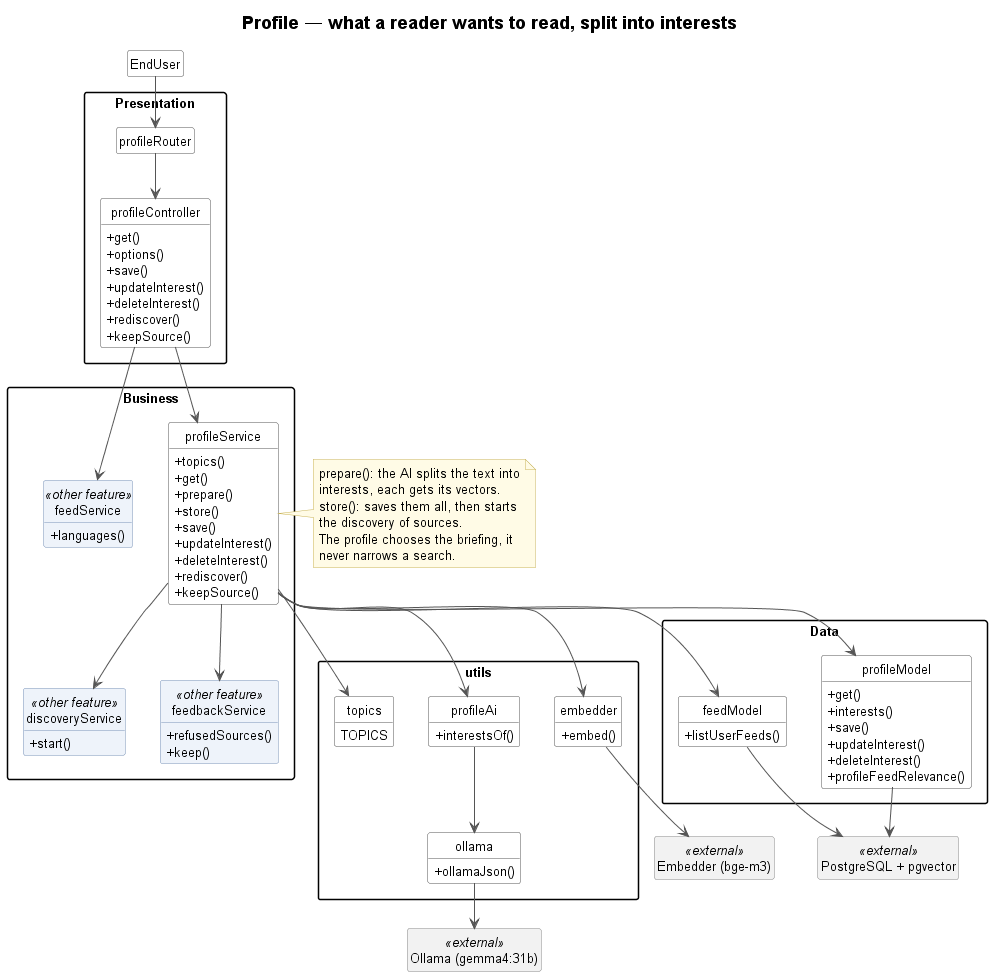
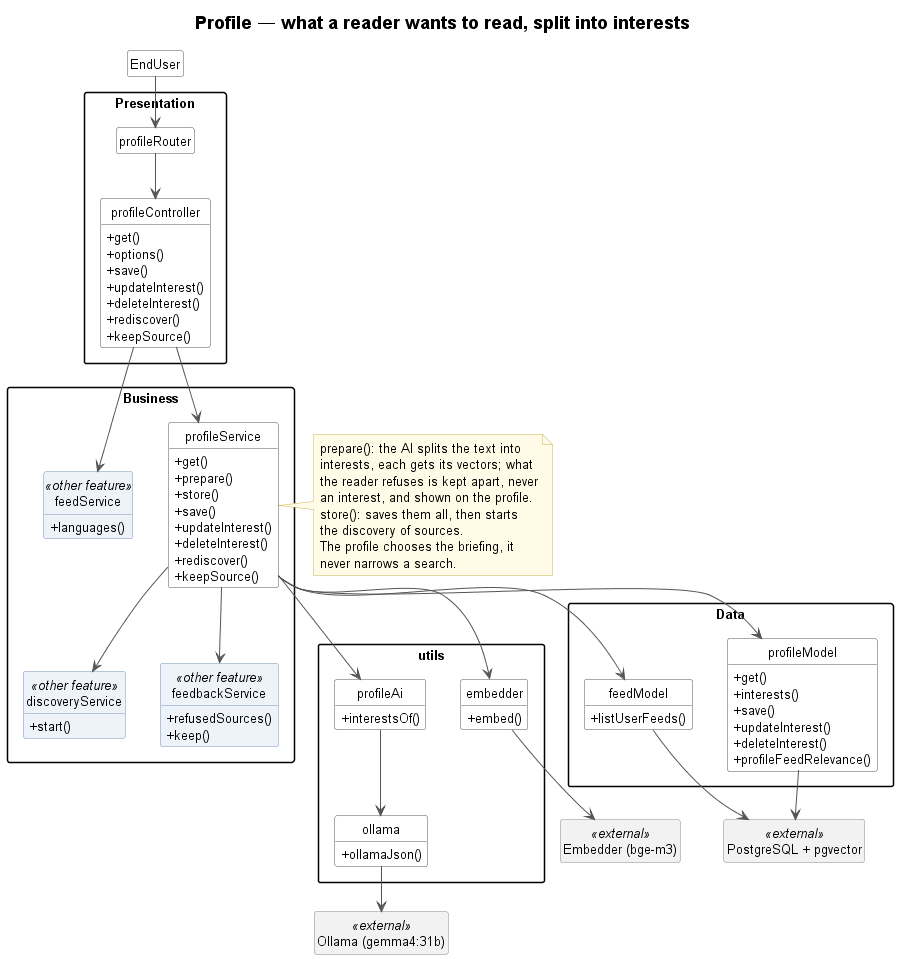
Keep what the reader refuses, shown on their profile
The AI already gave it apart from the interests: it is stored
(user_profiles.refused, db/add_profile_refused.sql) and returned by
GET /profile, named alone in the reader's words.

Changed region(s): [[0.0, 0.0605, 0.9978, 0.9979], [0.2183, 0.0, 0.7795, 0.0302], [0.1247, 0.635, 0.1559, 0.6653]]

diff --git a/services/utils/profile-ai.js b/services/utils/profile-ai.js
@@ -59,7 +59,7 @@ Pour chaque intérêt, donne :
 - "searches" : des recherches pour trouver dans Google News les médias qui publient sur ce sujet, dans chacune de ses "languages". Par langue, ${MAX_SEARCHES_PER_LANGUAGE} recherches courtes (1 à 3 mots), des mots qu'un titre d'article contiendrait, pas des phrases. "lang" est le code de la langue ("fr", "en", "sr").
 - "sections" : 1 mot par langue de ses "searches" qui nomme la rubrique d'un journal où ce sujet est publié, comme "jardin", "musique", "transports", "technologie".
 - "category" : la rubrique la plus proche parmi : ${categories.join(', ')}.
-Dans "refused", mets ce que le lecteur dit ne pas vouloir, avec ses mots, et [] s'il ne refuse rien.
+Dans "refused", mets chaque sujet que le lecteur dit ne pas vouloir, nommé seul avec ses mots, sans les mots du refus (« la téléréalité », pas « je ne veux pas de téléréalité »), et [] s'il ne refuse rien.
 Réponds uniquement en JSON : {"interests": [{"text": "...", "weight": 1, "keywords": "...", "languages": ["${language}"], "searches": [{"q": "...", "lang": "${language}"}], "sections": ["..."], "category": "${categories[0]}"}], "refused": ["..."]}`;
 
 const cleanText = (value, max) => typeof value === 'string' ? value.replace(/\s+/g, ' ').trim().slice(0, max) : '';
@@ -106,6 +106,13 @@ export const normalizeInterests = (answer, {categories}) => {
         .slice(0, MAX_INTERESTS);
 };
 
+export const MAX_REFUSED = 6;
+
+// what the reader says they do not want, in their words: shown on their profile so they see it was
+// read. The choice and the review of a briefing read it in the profile text itself
+export const normalizeRefused = (answer) => [...new Set((Array.isArray(answer?.refused) ? answer.refused : [])
+    .map(refused => cleanText(refused, 200)).filter(Boolean))].slice(0, MAX_REFUSED);
+
 // a search kept as "fr:Top 14", read back as {lang, q}
 export const parseSearch = (search) => {
     const [, lang, q] = String(search).match(/^([a-z]{2}):(.+)$/) ?? [];
@@ -115,7 +122,7 @@ export const parseSearch = (search) => {
 // Words of a profile that say how it is written, not what it is about: they are never looked for in
 // the interests
 const PROFILE_WORDS = new Set(`
-    intéresse intéressent intéresser intérêt intérêts surtout aussi tout toute tous toutes touche touchent
+    intéresse intéressent intéresser intéressé intéressée intérêt intérêts contre surtout aussi tout toute tous toutes touche touchent
     près enfin veux voudrais aime aimerais adore suivre suis rien mais plus moins très beaucoup peu
     actualité actualités nouvelles nouvelle info infos information informations sujet sujets thème thèmes
     cela ceux celles celle celui leurs notamment comme entre avec dans pour sans sont être avoir fait faire
@@ -152,13 +159,15 @@ export const missingWords = (profileText, interests, refused = []) => {
 // a secondary interest), twice each: the prompt asking for all the words of the reader left none out
 // (the one before: "nominations" and "changements" of the UEFA profile). A profile is split once when
 // it is saved, so when a word still misses the AI is asked once more, and its second answer kept only
-// when it misses fewer
+// when it misses fewer. {interests, refused}: what the reader refuses is never an interest, its vector
+// would bring the news refused
 export const interestsOf = async (profile) => {
     const prompt = interestsPrompt(profile);
     const answer = await ollamaJson(prompt);
     const interests = normalizeInterests(answer, profile);
     const missing = missingWords(profile.text, interests, answer?.refused);
-    if (missing.length === 0 || interests.length === 0) return interests;
+    const first = {interests, refused: normalizeRefused(answer)};
+    if (missing.length === 0 || interests.length === 0) return first;
 
     const again = await ollamaJson([
         {role: 'user', content: prompt},
@@ -166,7 +175,8 @@ export const interestsOf = async (profile) => {
         {role: 'user', content: `Ces mots du profil ne sont dans aucun "text" ni dans "refused" : ${missing.join(', ')}. Redonne toute ta réponse en ajoutant chacun, avec les mots qui l'entourent dans le profil, au "text" de l'intérêt qu'il précise, ou à "refused" si le lecteur le refuse. Ignore un mot qui ne dit aucun sujet.`},
     ]).catch(() => null);
     const retried = normalizeInterests(again, profile);
-    return retried.length > 0 && missingWords(profile.text, retried, again?.refused).length < missing.length ? retried : interests;
+    return retried.length > 0 && missingWords(profile.text, retried, again?.refused).length < missing.length
+        ? {interests: retried, refused: normalizeRefused(again)} : first;
 };
 
 // What the reader said of cards before, as examples: they say what the profile text does not ("no

diff --git a/tests/briefing/test.profile-ai.js b/tests/briefing/test.profile-ai.js
@@ -90,10 +90,11 @@ describe('interestsOf', () => {
     it('should ask once more when a word of the profile is missing, and keep the answer that misses fewer', async () => {
         ollamaJson
             .mockResolvedValueOnce({interests: [{text: 'Arbitrage du football : VAR'}], refused: []})
-            .mockResolvedValueOnce({interests: [{text: 'Arbitrage du football : VAR, nominations des arbitres'}], refused: []});
+            .mockResolvedValueOnce({interests: [{text: 'Arbitrage du football : VAR, nominations des arbitres'}], refused: ['le football féminin']});
 
-        const interests = await interestsOf(profile);
+        const {interests, refused} = await interestsOf(profile);
         expect(interests.map(interest => interest.text)).toEqual(['Arbitrage du football : VAR, nominations des arbitres']);
+        expect(refused).toEqual(['le football féminin']);
         const [conversation] = ollamaJson.mock.calls[1];
         expect(conversation.at(-1).content).toContain('nominations');
     });
@@ -102,7 +103,7 @@ describe('interestsOf', () => {
         ollamaJson
             .mockResolvedValueOnce({interests: [{text: 'Arbitrage du football : VAR'}]})
             .mockRejectedValueOnce(new Error('The AI did not answer in JSON.'));
-        expect((await interestsOf(profile))[0].text).toBe('Arbitrage du football : VAR');
+        expect((await interestsOf(profile)).interests[0].text).toBe('Arbitrage du football : VAR');
 
         ollamaJson.mockReset().mockResolvedValueOnce({interests: [{text: 'Arbitrage du football : VAR, nominations des arbitres'}]});
         await interestsOf(profile);

diff --git a/services/profile-service.js b/services/profile-service.js
@@ -29,6 +29,8 @@ const toProfile = (row) => row && ({
     text: row.text,
     // the language the news are shown in, of every language they are written in
     language: readerLanguage(row),
+    // what the AI read the reader does not want, in their words: no interest, the briefing leaves it out
+    refused: row.refused ?? [],
     discovery: {
         status: row.discovery_status,           // idle, running, done, failed
         error: row.discovery_error,
@@ -114,8 +116,8 @@ export const ProfileService = {
         }
 
         // the column keeps one language now: the news of every language are read for the reader
-        const profile = {text: written, languages: [language]};
-        const interests = await interestsOf({text: written, language, categories: FeedService.categories()});
+        const {interests, refused} = await interestsOf({text: written, language, categories: FeedService.categories()});
+        const profile = {text: written, languages: [language], refused};
         if (interests.length === 0) {
             throw Object.assign(new Error('No interest could be read in this text, describe the subjects you want to follow.'), {status: 422});
         }

diff --git a/config/swagger.js b/config/swagger.js
@@ -1063,7 +1063,8 @@ const options = {
                     "properties": {
                         "profile": {"type": "object", "nullable": true, "properties": {
                             "text": {"type": "string"},
-                            "languages": {"type": "array", "items": {"type": "string"}},
+                            "language": {"type": "string", "example": "fr", "description": "The language the news are shown in"},
+                            "refused": {"type": "array", "items": {"type": "string"}, "example": ["le football féminin"], "description": "What the reader says they do not want, as the AI read it in the text: never an interest, the briefing leaves it out"},
                             "discovery": {"type": "object", "properties": {
                                 "status": {"type": "string", "enum": ["idle", "running", "done", "failed"]},
                                 "error": {"type": "string", "nullable": true},

diff --git a/models/profile-model.js b/models/profile-model.js
@@ -37,11 +37,11 @@ export const ProfileModel = {
 
     // the profile and its interests, the old interests replaced at once
     // interests: [{text, weight, keywords, searches, sections, category, dense, sparse}], vectors as text
-    save: async (userId, {text, languages}, interests) => prisma.$transaction([
+    save: async (userId, {text, languages, refused = []}, interests) => prisma.$transaction([
         prisma.user_profiles.upsert({
             where: {id_user: userId},
-            create: {id_user: userId, text, languages},
-            update: {text, languages, updated_at: new Date()},
+            create: {id_user: userId, text, languages, refused},
+            update: {text, languages, refused, updated_at: new Date()},
         }),
         prisma.profile_interests.deleteMany({where: {id_user: userId}}),
         prisma.profile_interests.createMany({

diff --git a/docs/MLD_sprint4.md b/docs/MLD_sprint4.md
@@ -207,13 +207,13 @@ Index `i_threads_lang_updated` on `(lang, updated_at)`. Filled by the SQL functi
 |---|---|---|
 | id_user | integer | PK, FK → users.id, ON DELETE CASCADE |
 | text | text | NOT NULL — the profile in the words of the user |
-| topics | text[] | NOT NULL, default `{}` — the themes ticked at the start |
 | languages | text[] | NOT NULL, default `{}` — the languages they read |
 | discovery_status | text | NOT NULL, default `'idle'` — the search of sources for the profile: idle, running, done, failed |
 | discovery_error | text | null |
 | discovered_at | timestamptz | null |
 | updated_at | timestamptz | NOT NULL, default `now()` |
 | kept_sources | text[] | NOT NULL, default `{}` — feeds kept by the reader after their thumbs left them out |
+| refused | text[] | NOT NULL, default `{}` — what the reader says they do not want, as the AI read it in the text |
 
 One profile per user: its key is the user.
 

diff --git a/README.md b/README.md
@@ -140,6 +140,8 @@ fp32 on the card too, so they stay the ones of the processor, already stored and
     then run `node scripts/grow-directory.js` once to fill it
 21. Do the same with "drop_profile_topics.sql" (the themes ticked with a profile, no longer used: the
     interests are read from its text alone)
+22. Do the same with "add_profile_refused.sql" (what a reader says they do not want, shown on their
+    profile; filled when a profile is saved again)
 
 The scripts are in this order on purpose: each one only adds what the one before did not create, so a
 database already in service is brought up to date by running the missing ones, without losing its cache.
